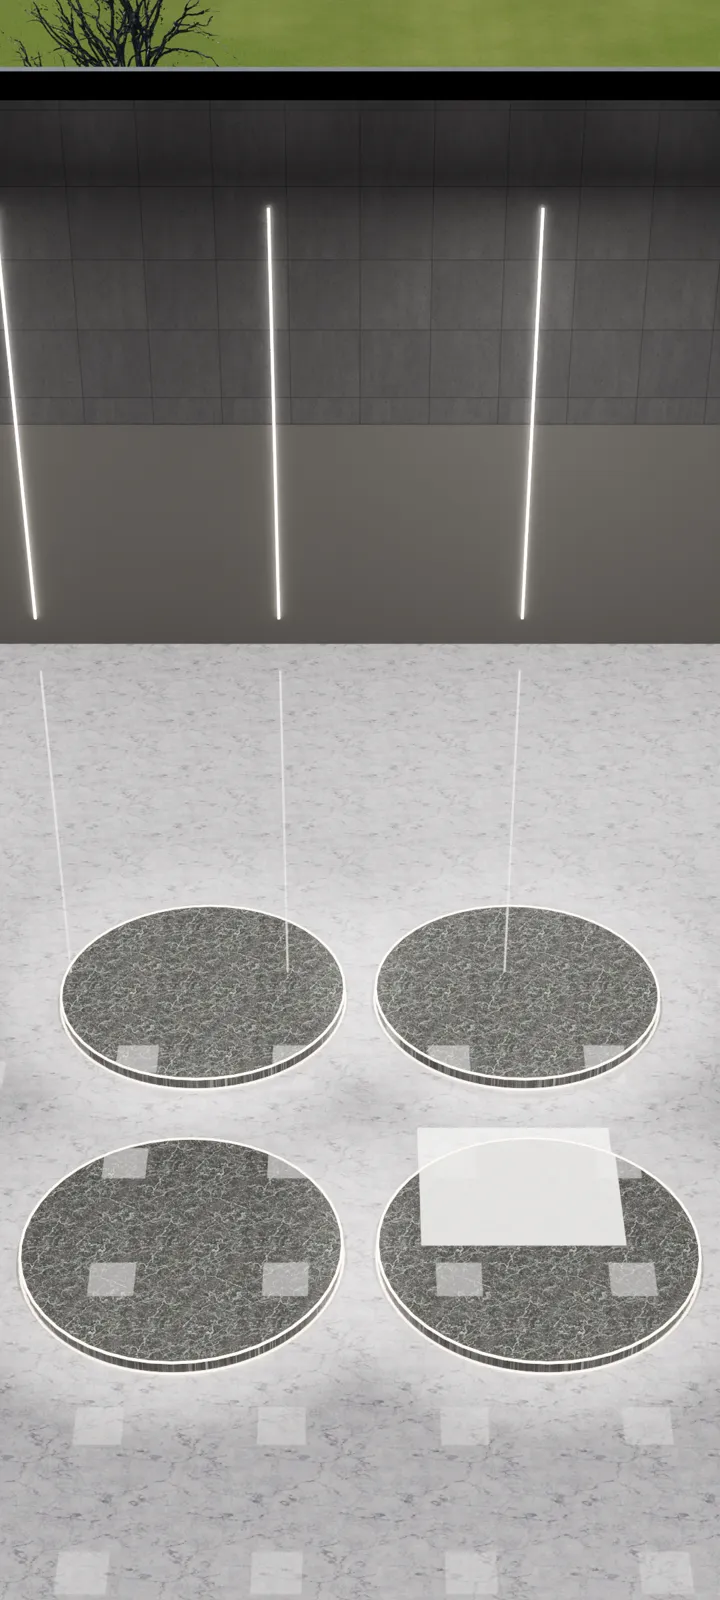
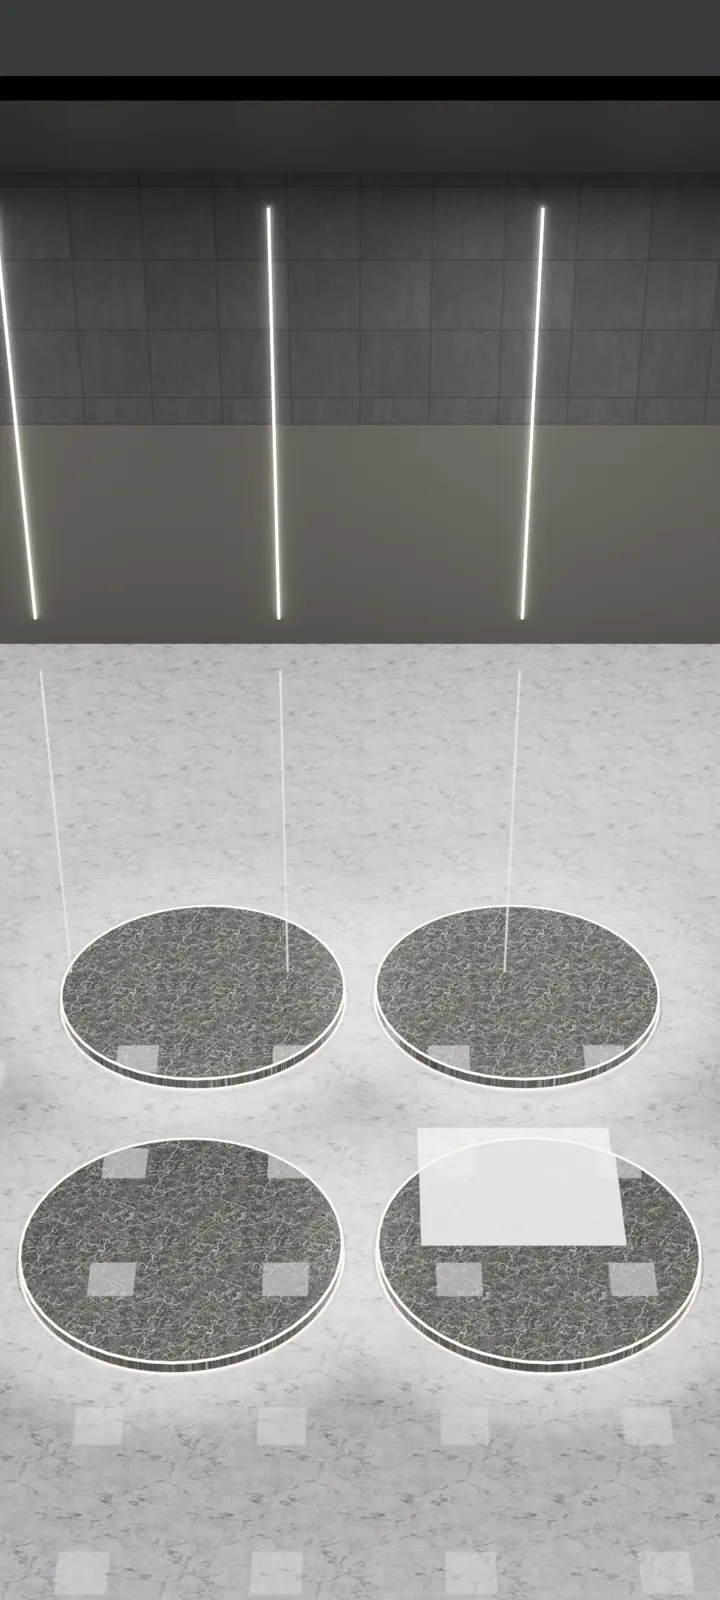
Entrada: versión vertical para móvil (72 fotogramas renderizados) y póster vertical
Claude-Session: https://claude.ai/code/session_01DAQUP62U1vUdpAXR9aKffi

Changed region(s): [[0.0, 0.0, 1.0, 0.0625]]

diff --git a/index.html b/index.html
@@ -19,7 +19,8 @@
 <meta property="og:image:width" content="1200"><meta property="og:image:height" content="630">
 <meta name="twitter:card" content="summary_large_image">
 <script type="application/ld+json">{"@context": "https://schema.org", "@graph": [{"@type": "WebSite", "@id": "https://parmotorweb.github.io/parmotor/#web", "name": "Par Motor", "url": "https://parmotorweb.github.io/parmotor/", "inLanguage": "es-ES"}, {"@type": "Organization", "@id": "https://parmotorweb.github.io/parmotor/#org", "name": "Par Motor", "url": "https://parmotorweb.github.io/parmotor/", "logo": "https://parmotorweb.github.io/parmotor/og.png", "email": "parmotorweb22@gmail.com", "sameAs": ["https://www.instagram.com/parmotorrr/", "https://www.youtube.com/channel/UCdaSZmZUMuUJtuB3xbGmAJA"]}, {"@type": "WebApplication", "name": "Tasador y comparador de coste real Par Motor", "url": "https://parmotorweb.github.io/parmotor/", "applicationCategory": "FinanceApplication", "operatingSystem": "Web", "inLanguage": "es-ES", "isAccessibleForFree": true, "offers": {"@type": "Offer", "price": "0", "priceCurrency": "EUR"}, "publisher": {"@id": "https://parmotorweb.github.io/parmotor/#org"}}]}</script>
-<link rel="preload" href="assets/cine/viaje-0.webp" as="image" fetchpriority="high">
+<link rel="preload" href="assets/cine/viaje-0.webp" as="image" fetchpriority="high" media="(min-aspect-ratio: 9/10)">
+<link rel="preload" href="assets/cine/seq-v/f000.webp" as="image" fetchpriority="high" media="(max-aspect-ratio: 9/10)">
 <link rel="preload" href="assets/fonts/Inter-400.woff2" as="font" type="font/woff2" crossorigin>
 <link rel="preload" href="assets/fonts/BarlowCondensed-800i.woff2" as="font" type="font/woff2" crossorigin>
 <meta name="color-scheme" content="dark">
@@ -544,8 +545,8 @@
 <main id="top">
   <section class="cine" id="hero" aria-label="Entrada al concesionario Par Motor">
     <div class="cine-stage">
-      <figure class="cf cine-poster base"><img src="assets/cine/viaje-0.webp" width="2400" height="1356" alt="Concesionario Par Motor en medio del campo, un día nublado y con lluvia" decoding="async" fetchpriority="high"></figure>
-      <canvas class="cine-seq" data-n="96" data-fin="0.93" data-dir="assets/cine/seq" aria-hidden="true"></canvas>
+      <figure class="cf cine-poster base"><picture><source media="(max-aspect-ratio: 9/10)" srcset="assets/cine/seq-v/f000.webp"><img src="assets/cine/viaje-0.webp" width="1280" height="720" alt="Concesionario Par Motor en medio del campo, un día nublado y con lluvia" decoding="async" fetchpriority="high"></picture></figure>
+      <canvas class="cine-seq" data-n="96" data-fin="0.93" data-dir="assets/cine/seq" data-n-v="72" data-dir-v="assets/cine/seq-v" aria-hidden="true"></canvas>
       <canvas class="cine-3d" aria-label="Recorrido en 3D hasta el interior del concesionario Par Motor" role="img"></canvas>
       <canvas class="cine-rain" aria-hidden="true"></canvas>
       <div class="cine-grade" aria-hidden="true"></div>

diff --git a/assets/editorial.css b/assets/editorial.css
@@ -48,6 +48,7 @@ header.scrolled{background:rgba(12,11,10,.84)!important;-webkit-backdrop-filter:
 .cine-stage{position:sticky;top:0;height:100vh;height:100svh;overflow:hidden;isolation:isolate}
 .cf{position:absolute;inset:0;margin:0;transform-origin:var(--fx,50%) var(--fy,50%);will-change:transform,opacity;backface-visibility:hidden}
 .cf img{width:100%;height:100%;object-fit:cover;display:block}
+.cf picture{display:contents}
 .cf:first-child{z-index:2}
 .cine-rain{position:absolute;inset:0;width:100%;height:100%;z-index:4;pointer-events:none;mix-blend-mode:screen}
 .cine-grade{position:absolute;inset:0;z-index:5;pointer-events:none;background:
